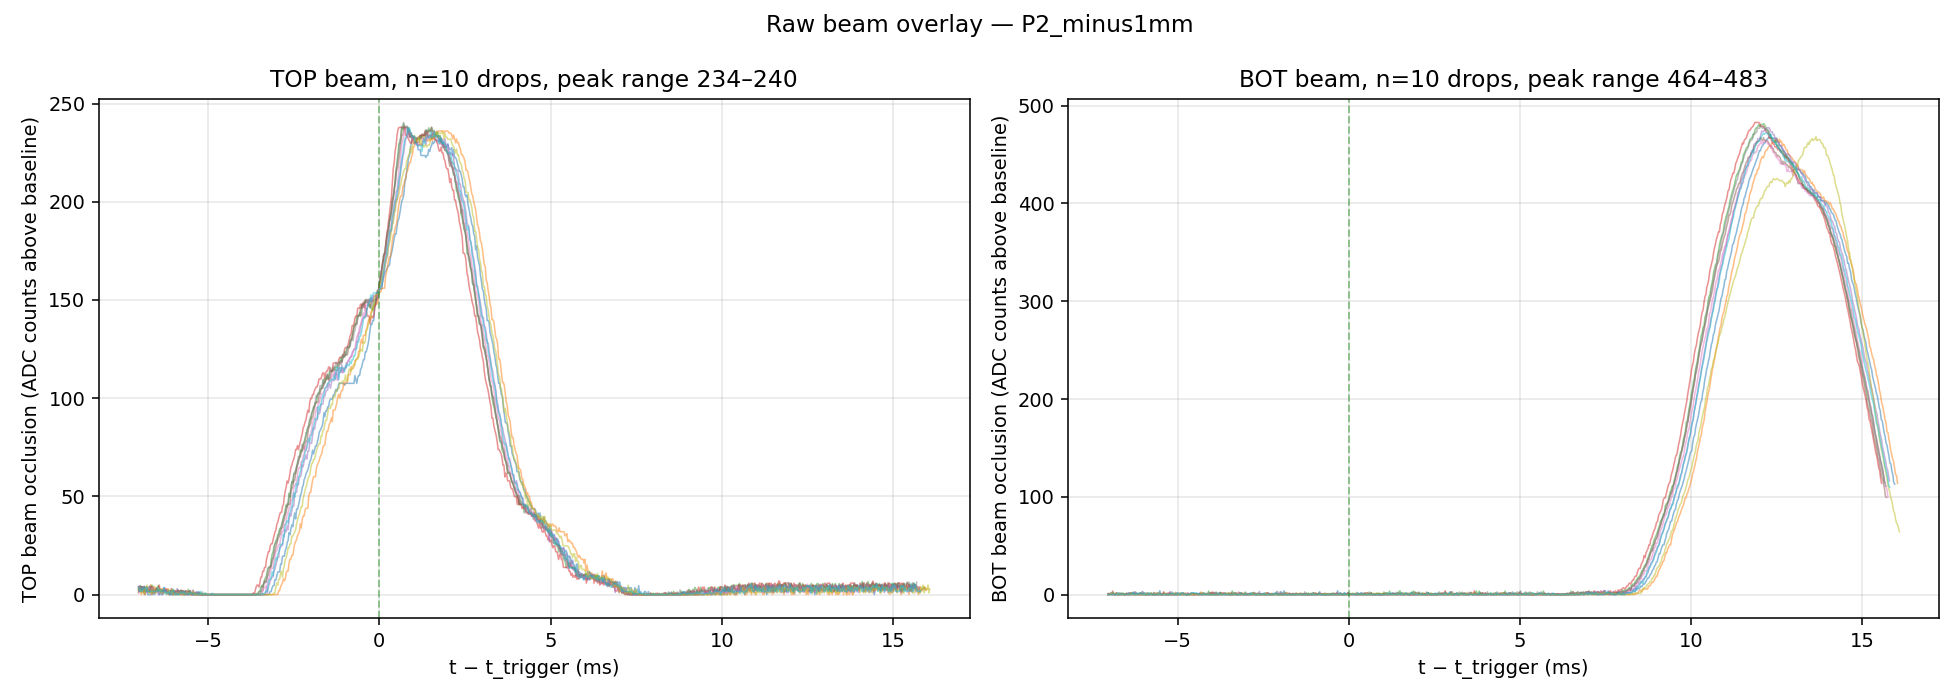
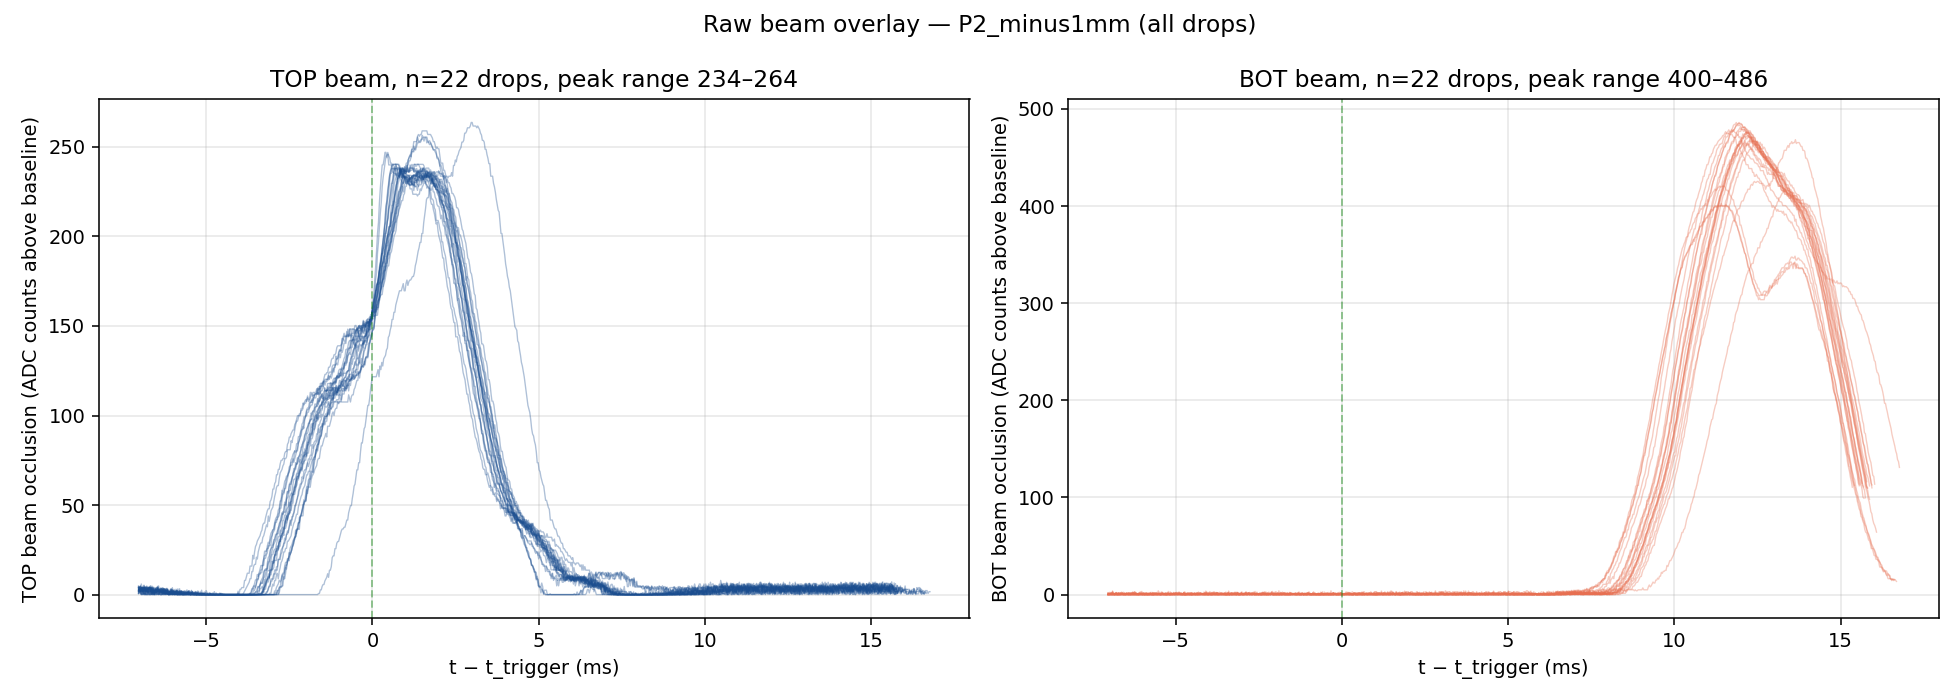
feat(analysis): more raw-overlay variants — TOP+BOT combined + median bands
Three additions to plot_raw_overlays.py for the §17-grounding visuals:

1. n_drops default 10 → 100. With per-position drop counts of 22–40 in
   the current 2026-05-14 PM dataset this effectively means "all
   available drops". Increases visual density and rigor of the
   spaghetti overlays without cherry-picking.

2. plot_one_position_combined() — single panel per position with both
   TOP and BOT beam attenuation overlaid in one chart (TOP blue, BOT
   orange, all drops). Makes the transit-time gap (~11 ms between TOP
   firing and BOT firing) directly visible alongside the per-channel
   shape contaminants, without the visual lookup between two panels.

3. plot_median_bands() — cross-position composite using median trace
   + 25–75 % IQR band per mount position, both beams. Cleaner than
   raw spaghetti for grader-friendly viewing; shows position-dependent
   BOT-peak timing shift directly. Uses viridis colormap across
   positions (purple → green) for consistent semantics.

Also shared color palette: TOP = #1a4d8f deep blue, BOT = #e76f51 warm
orange; refactored common attenuation/alignment into _atten() helper
used by every plot function.

New figures (all in analysis/figs/2026-05-14_pm/):
  raw_combined_P1_high.png            — TOP+BOT same panel, P1, n=40
  raw_combined_P2_minus1mm.png        — TOP+BOT same panel, P2, n=22
  raw_combined_P3_minus4mm.png        — TOP+BOT same panel, P3, n=23
[…]

diff --git a/analysis/scripts/plot_raw_overlays.py b/analysis/scripts/plot_raw_overlays.py
@@ -46,37 +46,53 @@ TODAY_POSITION_MAP = {
 }
 
 
-def _drop_overlay(events, channel: str, ax, n_drops: int = 10,
-                  baseline_window: int = 100, alpha: float = 0.5):
+# Color palette (consistent across all figures).
+TOP_COLOR = "#1a4d8f"   # deep blue
+BOT_COLOR = "#e76f51"   # warm orange
+
+
+def _atten(ev, channel: str, baseline_window: int = 100):
+    """Return (t_rel_ms, atten) — drop attenuation aligned on trigger."""
+    sig = (ev.raw_top if channel == "top" else ev.raw_bot).astype(np.float64)
+    t = ev.raw_t_us.astype(np.float64)
+    bw = min(baseline_window, sig.size)
+    baseline = float(np.mean(sig[:bw]))
+    atten = np.maximum(sig - baseline, 0.0)
+    t_rel_ms = (t - ev.t_trigger_us) / 1000.0
+    return t_rel_ms, atten
+
+
+def _drop_overlay(events, channel: str, ax, n_drops: int = 100,
+                  baseline_window: int = 100, alpha: float = 0.35,
+                  color: str | None = None):
     """Overlay up to n_drops of one channel's attenuation traces."""
     drawn = 0
     peaks = []
     for ev in events:
         if not ev.has_raw or drawn >= n_drops:
             continue
-        sig = (ev.raw_top if channel == "top" else ev.raw_bot).astype(np.float64)
-        t = ev.raw_t_us.astype(np.float64)
-        bw = min(baseline_window, sig.size)
-        baseline = float(np.mean(sig[:bw]))
-        atten = np.maximum(sig - baseline, 0.0)
-        # Align on trigger anchor.
-        t_rel_ms = (t - ev.t_trigger_us) / 1000.0
-        ax.plot(t_rel_ms, atten, alpha=alpha, linewidth=0.8)
+        t_rel_ms, atten = _atten(ev, channel, baseline_window)
+        ax.plot(t_rel_ms, atten,
+                color=color if color else None,
+                alpha=alpha, linewidth=0.7)
         peaks.append(float(np.max(atten)))
         drawn += 1
     ax.set_xlabel("t − t_trigger (ms)")
     ax.set_ylabel(f"{channel.upper()} beam occlusion (ADC counts above baseline)")
-    ax.set_title(f"{channel.upper()} beam, n={drawn} drops, peak range {min(peaks):.0f}–{max(peaks):.0f}" if peaks else f"{channel.upper()} beam (no raw data)")
+    ax.set_title(
+        f"{channel.upper()} beam, n={drawn} drops, peak range {min(peaks):.0f}–{max(peaks):.0f}"
+        if peaks else f"{channel.upper()} beam (no raw data)")
     ax.grid(alpha=0.3)
     ax.axvline(0.0, color="green", linestyle="--", alpha=0.4, linewidth=1)
     return drawn
 
 
 def plot_one_position(position_tag: str, events, out_dir: Path):
+    """Per-position figure: TOP and BOT side-by-side, all drops overlaid."""
     fig, (ax_top, ax_bot) = plt.subplots(1, 2, figsize=(14, 5))
-    fig.suptitle(f"Raw beam overlay — {position_tag}", fontsize=12)
-    n_top = _drop_overlay(events, "top", ax_top)
-    n_bot = _drop_overlay(events, "bot", ax_bot)
+    fig.suptitle(f"Raw beam overlay — {position_tag} (all drops)", fontsize=12)
+    n_top = _drop_overlay(events, "top", ax_top, color=TOP_COLOR)
+    n_bot = _drop_overlay(events, "bot", ax_bot, color=BOT_COLOR)
     fig.tight_layout()
     out_path = out_dir / f"raw_overlays_{position_tag}.png"
     fig.savefig(out_path, dpi=140)
@@ -84,33 +100,136 @@ def plot_one_position(position_tag: str, events, out_dir: Path):
     print(f"  {position_tag}: TOP={n_top} BOT={n_bot} -> {out_path}")
 
 
-def plot_composite(per_position_events: dict, out_dir: Path):
-    """One big figure: TOP and BOT, each with all positions overlaid."""
+def plot_one_position_combined(position_tag: str, events, out_dir: Path,
+                               n_drops: int = 100):
+    """Per-position figure: TOP and BOT overlaid in the SAME panel.
+
+    Same drops, two channels in different colors — visualises both the
+    transit-time gap (TOP fires first, BOT fires ~11 ms later) and the
+    per-channel shape contaminants at one position."""
+    fig, ax = plt.subplots(1, 1, figsize=(13, 6))
+    fig.suptitle(f"Raw beam — {position_tag}, TOP & BOT in one panel (all drops)",
+                 fontsize=12)
+
+    peaks_top = []
+    peaks_bot = []
+    drawn_top = drawn_bot = 0
+
+    for ev in events:
+        if not ev.has_raw:
+            continue
+        if drawn_top >= n_drops and drawn_bot >= n_drops:
+            break
+        if drawn_top < n_drops:
+            t, atten = _atten(ev, "top")
+            ax.plot(t, atten, color=TOP_COLOR, alpha=0.30, linewidth=0.7,
+                    label="TOP beam" if drawn_top == 0 else None)
+            peaks_top.append(float(np.max(atten)))
+            drawn_top += 1
+        if drawn_bot < n_drops:
+            t, atten = _atten(ev, "bot")
+            ax.plot(t, atten, color=BOT_COLOR, alpha=0.30, linewidth=0.7,
+                    label="BOT beam" if drawn_bot == 0 else None)
+            peaks_bot.append(float(np.max(atten)))
+            drawn_bot += 1
+
+    ax.set_xlabel("t − t_trigger (ms)")
+    ax.set_ylabel("Beam occlusion (ADC counts above baseline)")
+    if peaks_top and peaks_bot:
+        ax.set_title(
+            f"TOP n={drawn_top} (peak {min(peaks_top):.0f}–{max(peaks_top):.0f})  |  "
+            f"BOT n={drawn_bot} (peak {min(peaks_bot):.0f}–{max(peaks_bot):.0f})")
+    ax.grid(alpha=0.3)
+    ax.legend(loc="upper right", fontsize=11, framealpha=0.92)
+    ax.axvline(0.0, color="green", linestyle="--", alpha=0.4, linewidth=1)
+
+    fig.tight_layout()
+    out_path = out_dir / f"raw_combined_{position_tag}.png"
+    fig.savefig(out_path, dpi=140)
+    plt.close(fig)
+    print(f"  combined {position_tag}: TOP={drawn_top} BOT={drawn_bot} -> {out_path}")
+
+
+def _aligned_traces(events, channel: str, baseline_window: int = 100,
+                    n_grid: int = 700):
+    """Interpolate every drop's attenuation onto a common time grid.
+
+    Returns (t_grid_ms, traces) where traces.shape = (n_drops, n_grid)."""
+    raw = []
+    for ev in events:
+        if not ev.has_raw:
+            continue
+        raw.append(_atten(ev, channel, baseline_window))
+    if not raw:
+        return None, None
+    t_min = max(r[0][0] for r in raw)
+    t_max = min(r[0][-1] for r in raw)
+    t_grid = np.linspace(t_min, t_max, n_grid)
+    traces = np.full((len(raw), n_grid), np.nan)
+    for i, (t_rel, atten) in enumerate(raw):
+        traces[i] = np.interp(t_grid, t_rel, atten, left=np.nan, right=np.nan)
+    return t_grid, traces
+
+
+def plot_median_bands(per_position_events: dict, out_dir: Path):
+    """Composite: median trace + 25–75 % IQR band per position, both beams."""
     positions = list(per_position_events.keys())
-    colors = plt.cm.tab10(np.linspace(0, 1, max(len(positions), 1)))
+    pos_colors = plt.cm.viridis(np.linspace(0.15, 0.85, max(len(positions), 1)))
 
     fig, (ax_top, ax_bot) = plt.subplots(1, 2, figsize=(16, 6))
-    fig.suptitle("Raw beam overlays — all positions composite (2026-05-14 PM)", fontsize=13)
+    fig.suptitle("Raw beam — median trace + 25–75 % band per mount position "
+                 "(2026-05-14 PM, all drops)", fontsize=13)
+
+    for ax, channel in [(ax_top, "top"), (ax_bot, "bot")]:
+        for col, pos in zip(pos_colors, positions):
+            t_grid, traces = _aligned_traces(per_position_events[pos], channel)
+            if traces is None:
+                continue
+            n = len(traces)
+            med = np.nanmedian(traces, axis=0)
+            q25 = np.nanpercentile(traces, 25, axis=0)
+            q75 = np.nanpercentile(traces, 75, axis=0)
+            ax.plot(t_grid, med, color=col, linewidth=1.8,
+                    label=f"{pos} (n={n})")
+            ax.fill_between(t_grid, q25, q75, color=col, alpha=0.18)
+        ax.set_xlabel("t − t_trigger (ms)")
+        ax.set_ylabel(f"{channel.upper()} beam occlusion (ADC counts above baseline)")
+        ax.set_title(f"{channel.upper()} beam — median (line) + 25–75 % band (shaded)")
+        ax.grid(alpha=0.3)
+        ax.legend(loc="upper right", fontsize=10, framealpha=0.92)
+        ax.axvline(0.0, color="green", linestyle="--", alpha=0.4, linewidth=1)
+
+    fig.tight_layout()
+    out_path = out_dir / "raw_median_bands_all_positions.png"
+    fig.savefig(out_path, dpi=140)
+    plt.close(fig)
+    print(f"  median bands composite -> {out_path}")
+
+
+def plot_composite(per_position_events: dict, out_dir: Path,
+                   n_drops_per_position: int = 100):
+    """One big figure: TOP and BOT, each with all positions overlaid (spaghetti)."""
+    positions = list(per_position_events.keys())
+    colors = plt.cm.viridis(np.linspace(0.15, 0.85, max(len(positions), 1)))
+
+    fig, (ax_top, ax_bot) = plt.subplots(1, 2, figsize=(16, 6))
+    fig.suptitle("Raw beam overlays — all positions composite "
+                 "(2026-05-14 PM, all drops)", fontsize=13)
 
     for ax, channel in [(ax_top, "top"), (ax_bot, "bot")]:
         for col, pos in zip(colors, positions):
-            evs = per_position_events[pos][:5]   # 5 drops per position
+            evs = per_position_events[pos][:n_drops_per_position]
             for j, ev in enumerate(evs):
                 if not ev.has_raw:
                     continue
-                sig = (ev.raw_top if channel == "top" else ev.raw_bot).astype(np.float64)
-                t = ev.raw_t_us.astype(np.float64)
-                bw = min(100, sig.size)
-                baseline = float(np.mean(sig[:bw]))
-                atten = np.maximum(sig - baseline, 0.0)
-                t_rel_ms = (t - ev.t_trigger_us) / 1000.0
-                ax.plot(t_rel_ms, atten, color=col, alpha=0.55, linewidth=0.8,
-                        label=pos if j == 0 else None)
+                t_rel_ms, atten = _atten(ev, channel)
+                ax.plot(t_rel_ms, atten, color=col, alpha=0.35, linewidth=0.7,
+                        label=f"{pos} (n={len(evs)})" if j == 0 else None)
         ax.set_xlabel("t − t_trigger (ms)")
         ax.set_ylabel(f"{channel.upper()} beam occlusion (ADC counts above baseline)")
         ax.set_title(f"{channel.upper()} beam")
         ax.grid(alpha=0.3)
-        ax.legend(loc="upper right", fontsize=8)
+        ax.legend(loc="upper right", fontsize=10, framealpha=0.92)
         ax.axvline(0.0, color="green", linestyle="--", alpha=0.4, linewidth=1)
 
     fig.tight_layout()
@@ -151,12 +270,17 @@ def main():
     if not per_position_events:
         sys.exit("No captures with raw waveform data — make sure firmware was flashed with ENABLE_RAW_CAPTURE=1.")
 
-    print(f"\nPlotting per-position overlays:")
+    print(f"\nPlotting per-position 2-panel overlays:")
     for pos, evs in per_position_events.items():
         plot_one_position(pos, evs, OUT_DIR)
 
-    print(f"\nPlotting composite:")
+    print(f"\nPlotting per-position 1-panel TOP+BOT combined:")
+    for pos, evs in per_position_events.items():
+        plot_one_position_combined(pos, evs, OUT_DIR)
+
+    print(f"\nPlotting cross-position composites:")
     plot_composite(per_position_events, OUT_DIR)
+    plot_median_bands(per_position_events, OUT_DIR)
 
 
 if __name__ == "__main__":
